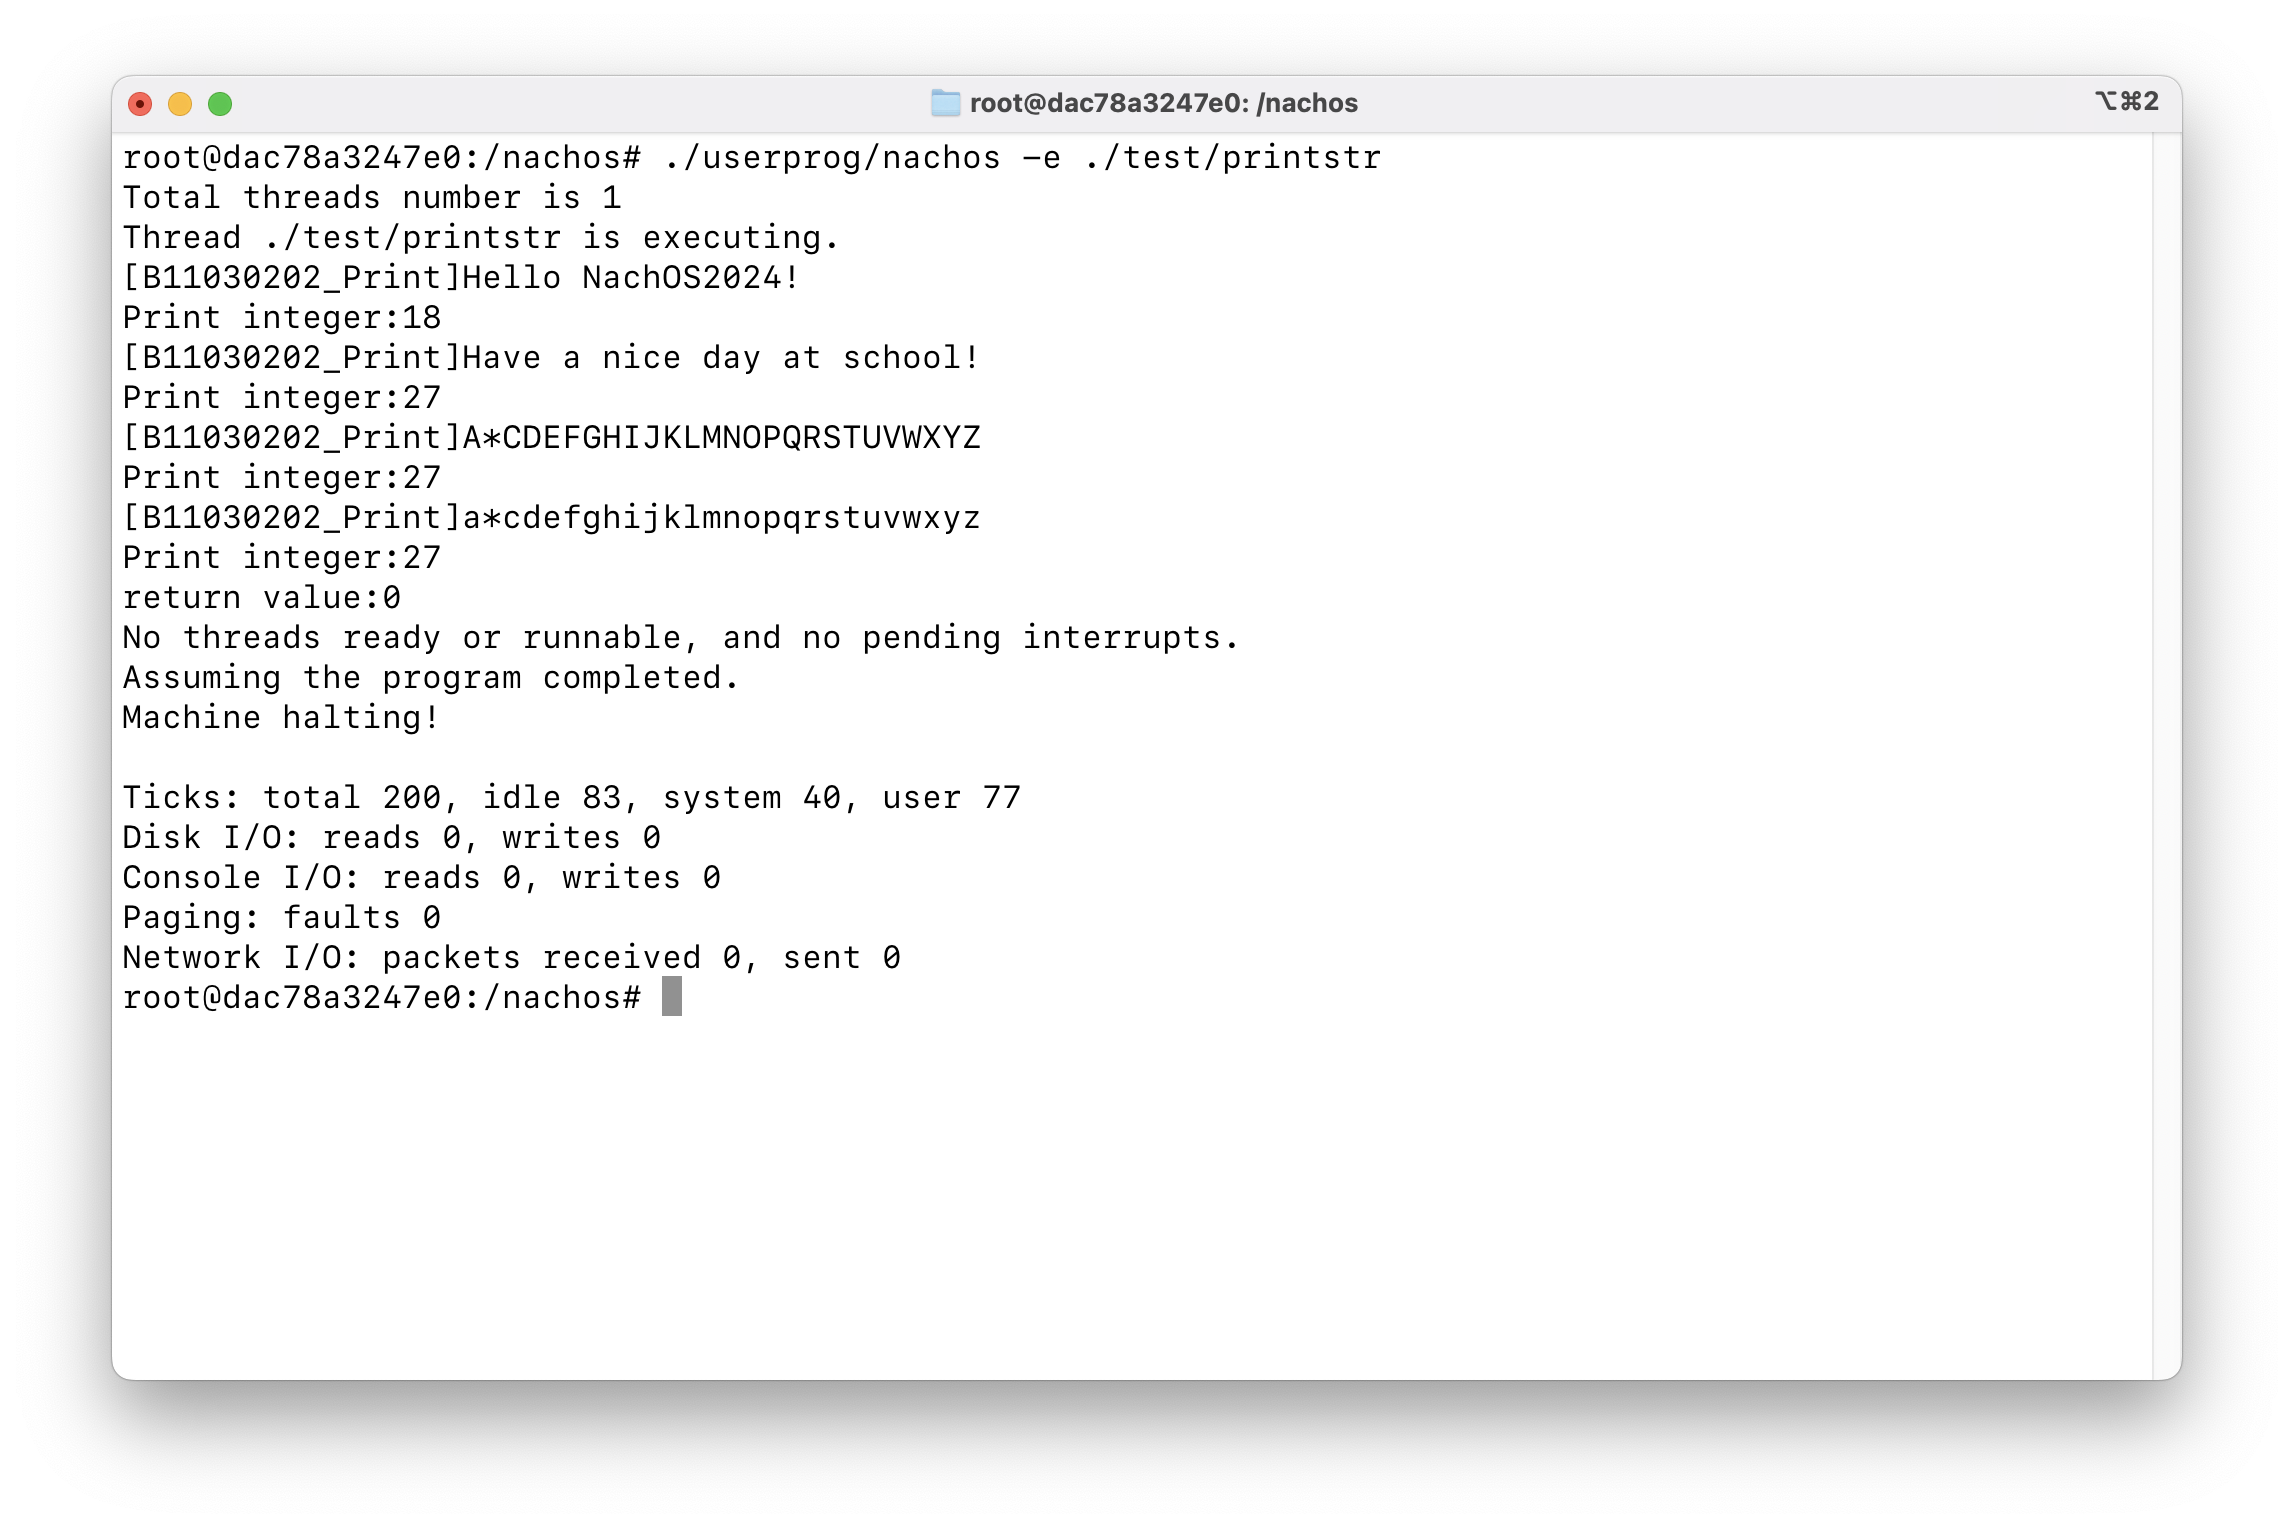
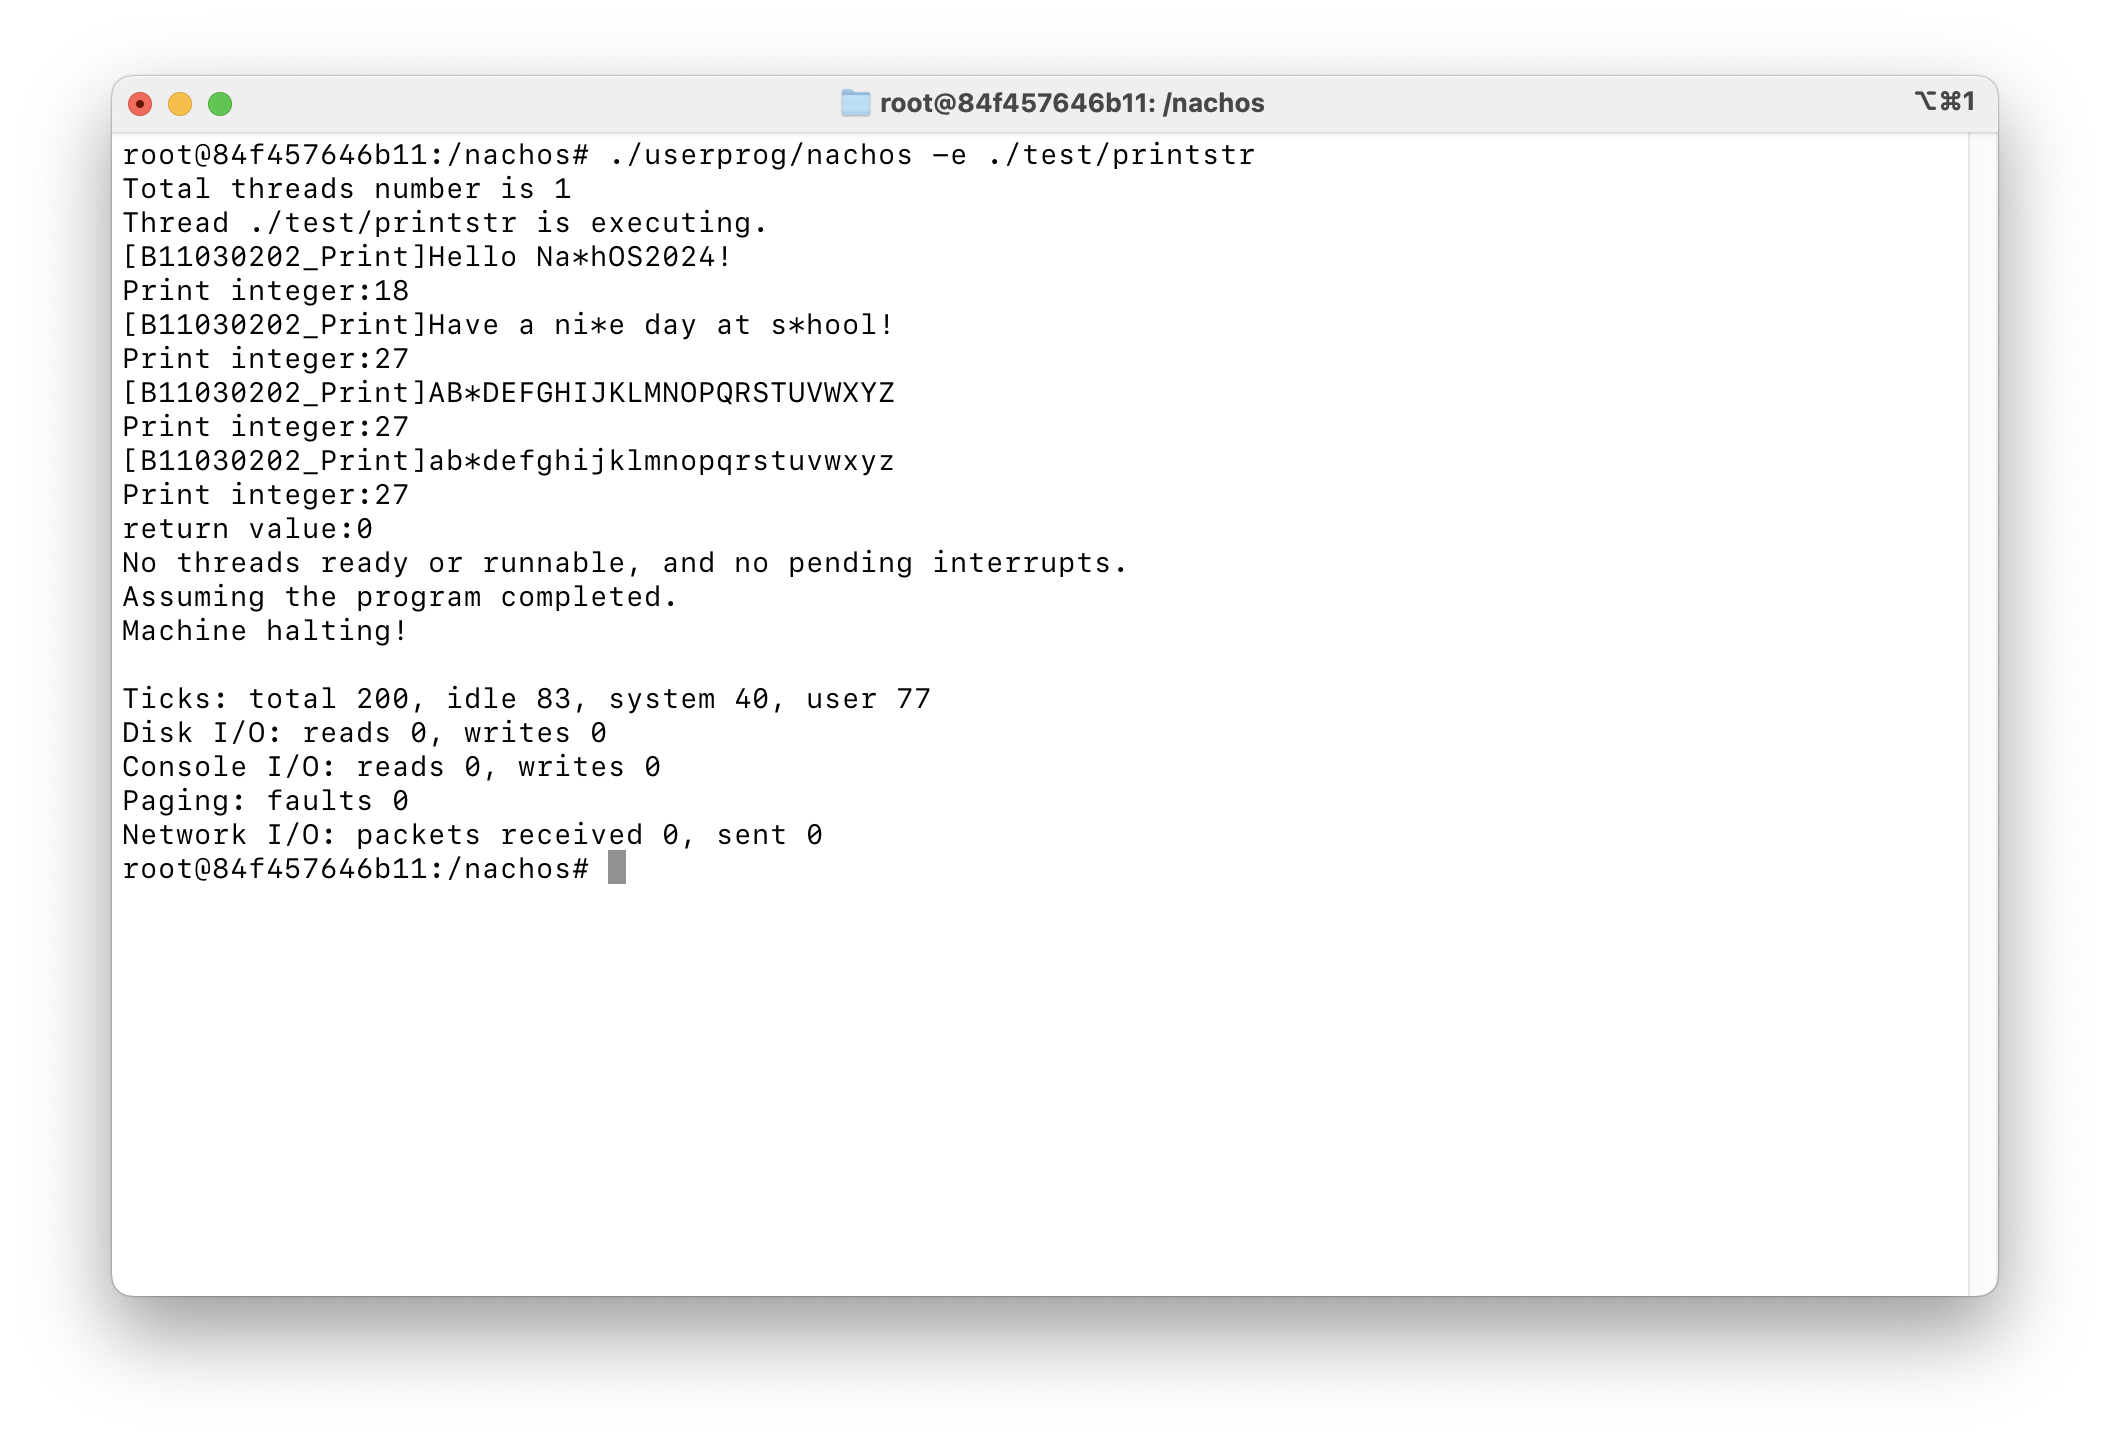
fix(homework 01): fix to replace the correct character in `print` syscall

Changed region(s): [[0.0308, 0.0623, 0.955, 0.9037], [0.3389, 0.6233, 0.3697, 0.6544]]

diff --git a/NachOS-Docker/code/userprog/exception.cc b/NachOS-Docker/code/userprog/exception.cc
@@ -27,8 +27,8 @@
 #include "syscall.h"
 
 #define STUDENT_ID 11030202
-#define PRINT_REPLACE_CHAR_1 'B'
-#define PRINT_REPLACE_CHAR_2 'b'
+#define PRINT_REPLACE_CHAR_1 'C'
+#define PRINT_REPLACE_CHAR_2 'c'
 
 //----------------------------------------------------------------------
 // ExceptionHandler
@@ -136,8 +136,12 @@ void ExceptionHandler(ExceptionType which) {
         case SC_Print: {
             /*
              * Because my student ID is B11030202, I will print the string start with
-             * `[B11030202_Print]` and due to the last two characters of my student ID is `02`, 02 %
-             * 26 = 2, so I will replace `B` and `b` with `*`.
+             * `[B11030202_Print]` and due to the last two characters of my student ID is `02`,
+             * 02 % 26 = 2, so I will replace `C` and `c` with `*`.
+             * | 0    | 1    | 2    | 3    | 4    | 5    | 6    | 7    | ...  | 25   |
+             * | ---- | ---- | ---- | ---- | ---- | ---- | ---- | ---- | ---- | ---- |
+             * | A    | B    | C    | D    | E    | F    | G    | H    | ...  | Z    |
+             * | a    | b    | c    | d    | e    | f    | g    | h    | ...  | z    |
              */
             cout << "[B11030202_Print]";
             val = 0;

diff --git a/docs/homework 01/README.md b/docs/homework 01/README.md
@@ -480,8 +480,12 @@ void ExceptionHandler(ExceptionType which) {
         case SC_Print: {
             /*
              * Because my student ID is B11030202, I will print the string start with
-             * `[B11030202_Print]` and due to the last two characters of my student ID is `02`, 02 %
-             * 26 = 2, so I will replace `B` and `b` with `*`.
+             * `[B11030202_Print]` and due to the last two characters of my student ID is `02`,
+             * 02 % 26 = 2, so I will replace `C` and `c` with `*`.
+             * | 0    | 1    | 2    | 3    | 4    | 5    | 6    | 7    | ...  | 25   |
+             * | ---- | ---- | ---- | ---- | ---- | ---- | ---- | ---- | ---- | ---- |
+             * | A    | B    | C    | D    | E    | F    | G    | H    | ...  | Z    |
+             * | a    | b    | c    | d    | e    | f    | g    | h    | ...  | z    |
              */
             cout << "[B11030202_Print]";
             val = 0;
@@ -509,6 +513,11 @@ void ExceptionHandler(ExceptionType which) {
                 // Count the number of characters only which have been printed
                 val++;
             }
+
+            // Return the number of characters printed
+            kernel->machine->WriteRegister(2, val);
+
+            return;
         }
         }
         ...
@@ -555,13 +564,13 @@ int main() {
 root@dac78a3247e0:/nachos# ./userprog/nachos -e ./test/printstr
 Total threads number is 1
 Thread ./test/printstr is executing.
-[B11030202_Print]Hello NachOS2024!
+[B11030202_Print]Hello Na*hOS2024!
 Print integer:18
-[B11030202_Print]Have a nice day at school!
+[B11030202_Print]Have a ni*e day at s*hool!
 Print integer:27
-[B11030202_Print]A*CDEFGHIJKLMNOPQRSTUVWXYZ
+[B11030202_Print]AB*DEFGHIJKLMNOPQRSTUVWXYZ
 Print integer:27
-[B11030202_Print]a*cdefghijklmnopqrstuvwxyz
+[B11030202_Print]ab*defghijklmnopqrstuvwxyz
 Print integer:27
 return value:0
 No threads ready or runnable, and no pending interrupts.
